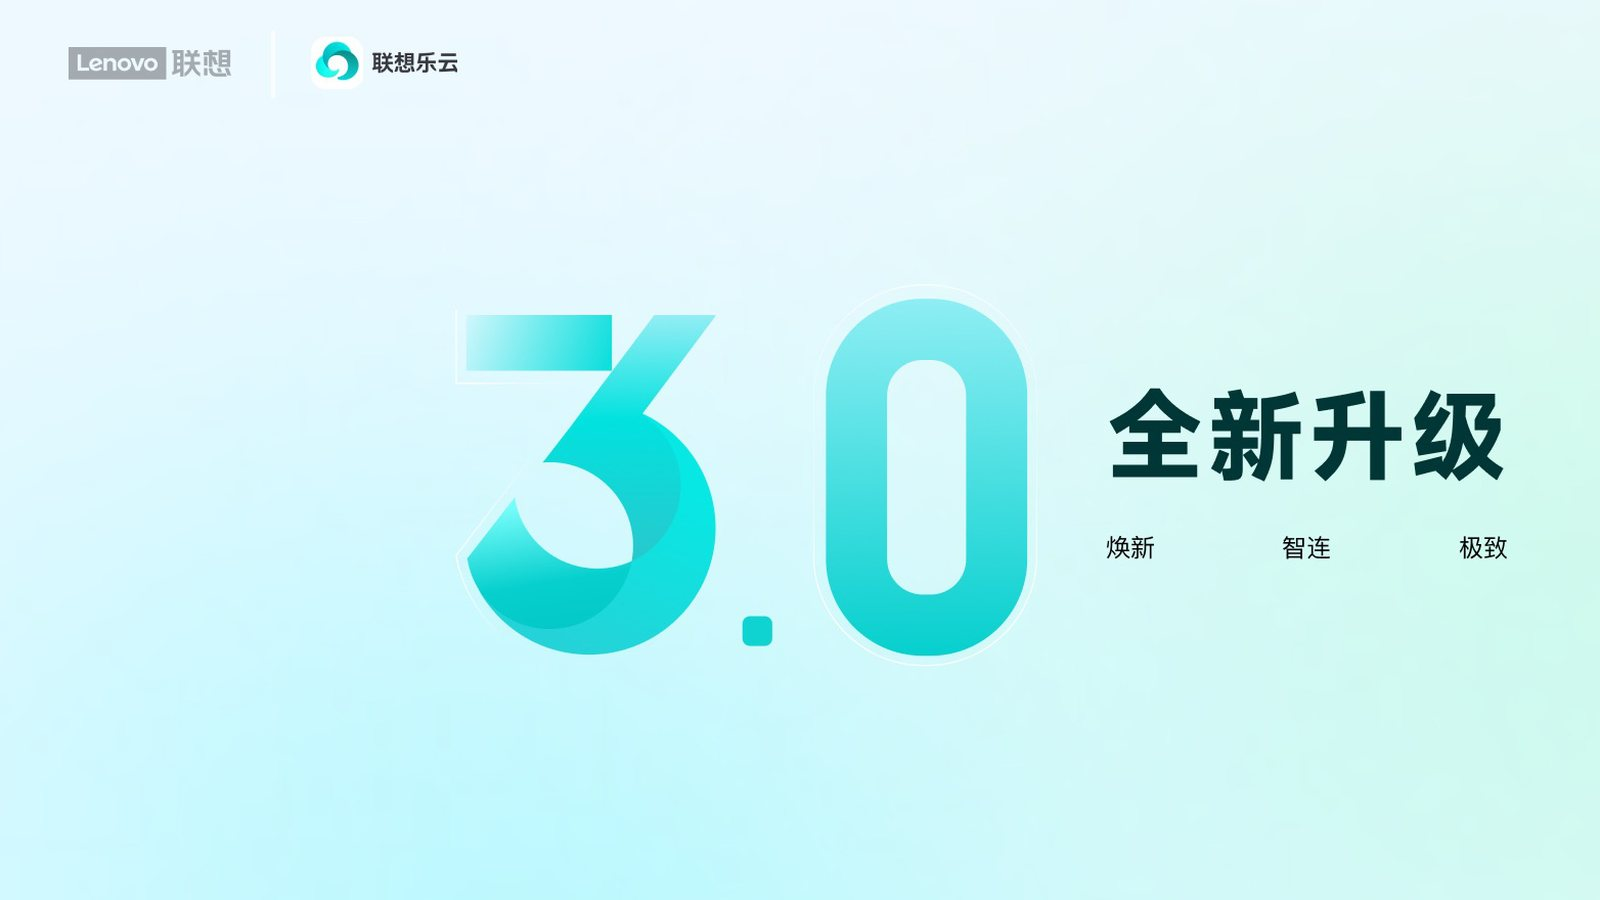
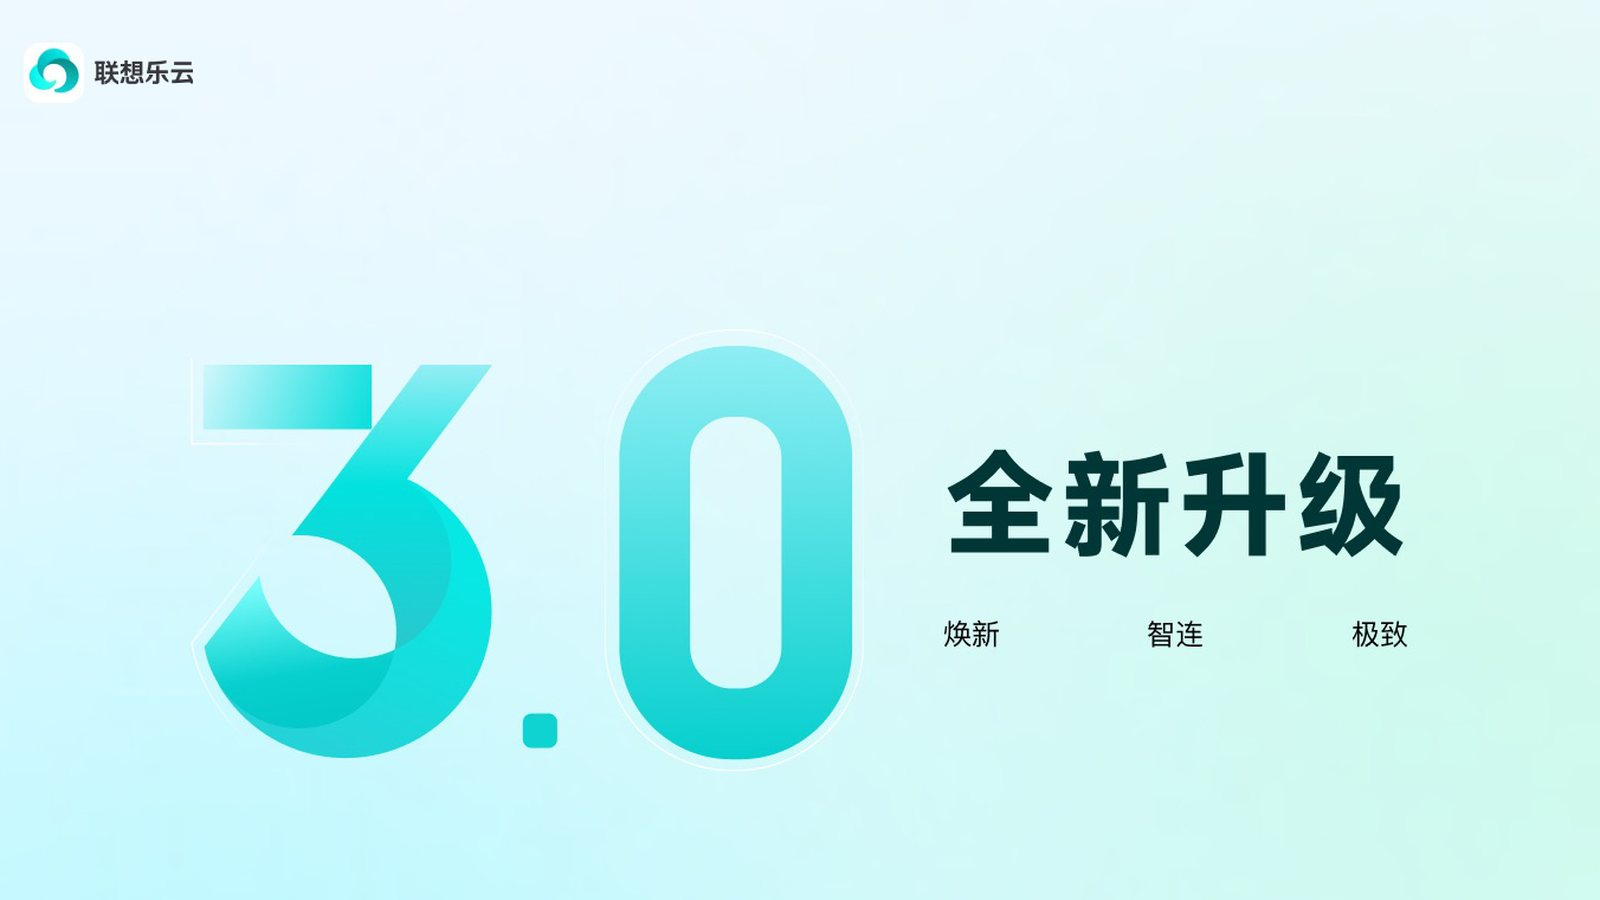
fix: 联想卡片改为以内容为中心裁切
上一版把左边距留给了 Lenovo 标识，导致「3.0 全新升级」整体偏右约 11%。

现在裁切窗口对准内容中心（源页 x 284–1636，y 0–760，1352×760 保持 16:9），
主体视觉在卡片内水平居中。顶部保留联想乐云标识及其原始 42px 上边距，
下方仍不含「LeCloud Display」标题行。

注：源页 Logo 在最左侧、内容在正中，16:9 窗口无法同时保留完整
Lenovo 企业标识与居中构图，故保留产品标识（联想乐云），舍去企业标识。

diff --git a/CHANGELOG.md b/CHANGELOG.md
@@ -13,6 +13,8 @@
   卡片比例改为 16:9 与源图一致，零裁切。
 - 重裁三张非 16:9 的卡片图（agibot / explore / lenovo）统一为 1600×900。
 - 联想卡片只保留「3.0 全新升级」区域，去掉下方被截断的「LeCloud Display」大标题。
+  裁切窗口改为以内容为中心（源页 x 284–1636，y 0–760），
+  上方保留乐云标识的原始留白，主体视觉在卡片内水平居中。
 
 ## [1.1.0] — 2026-10-16
 
